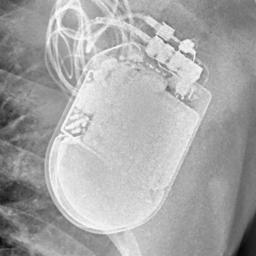
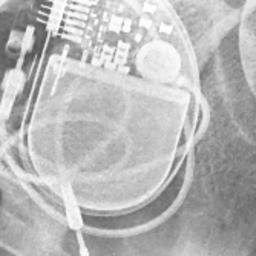
y

diff --git a/cied/testNewModelFull.py b/cied/testNewModelFull.py
@@ -84,7 +84,7 @@ def run_pipeline():
     file_seg_weights = 'C:/CIEDID_data/AbdnL/models/best_seg.pth' 
     file_manuf       = 'C:/CIEDID_data/pkl/classification_manuf.pkl'
     file_model       = 'C:/CIEDID_data/pkl/classification_model.pkl'
-    img_input        = 'C:/CIEDID_data/AbdnL/data/90.png' # เปลี่ยนเป็นรูปที่อยากลอง
+    img_input        = 'C:/CIEDID_data/AbdnL/data/132.png' # เปลี่ยนเป็นรูปที่อยากลอง
     temp_crop        = 'cied/Dataset/temp_crop_pth.jpg'
 
     # Detection Thresholds for Abandoned Lead